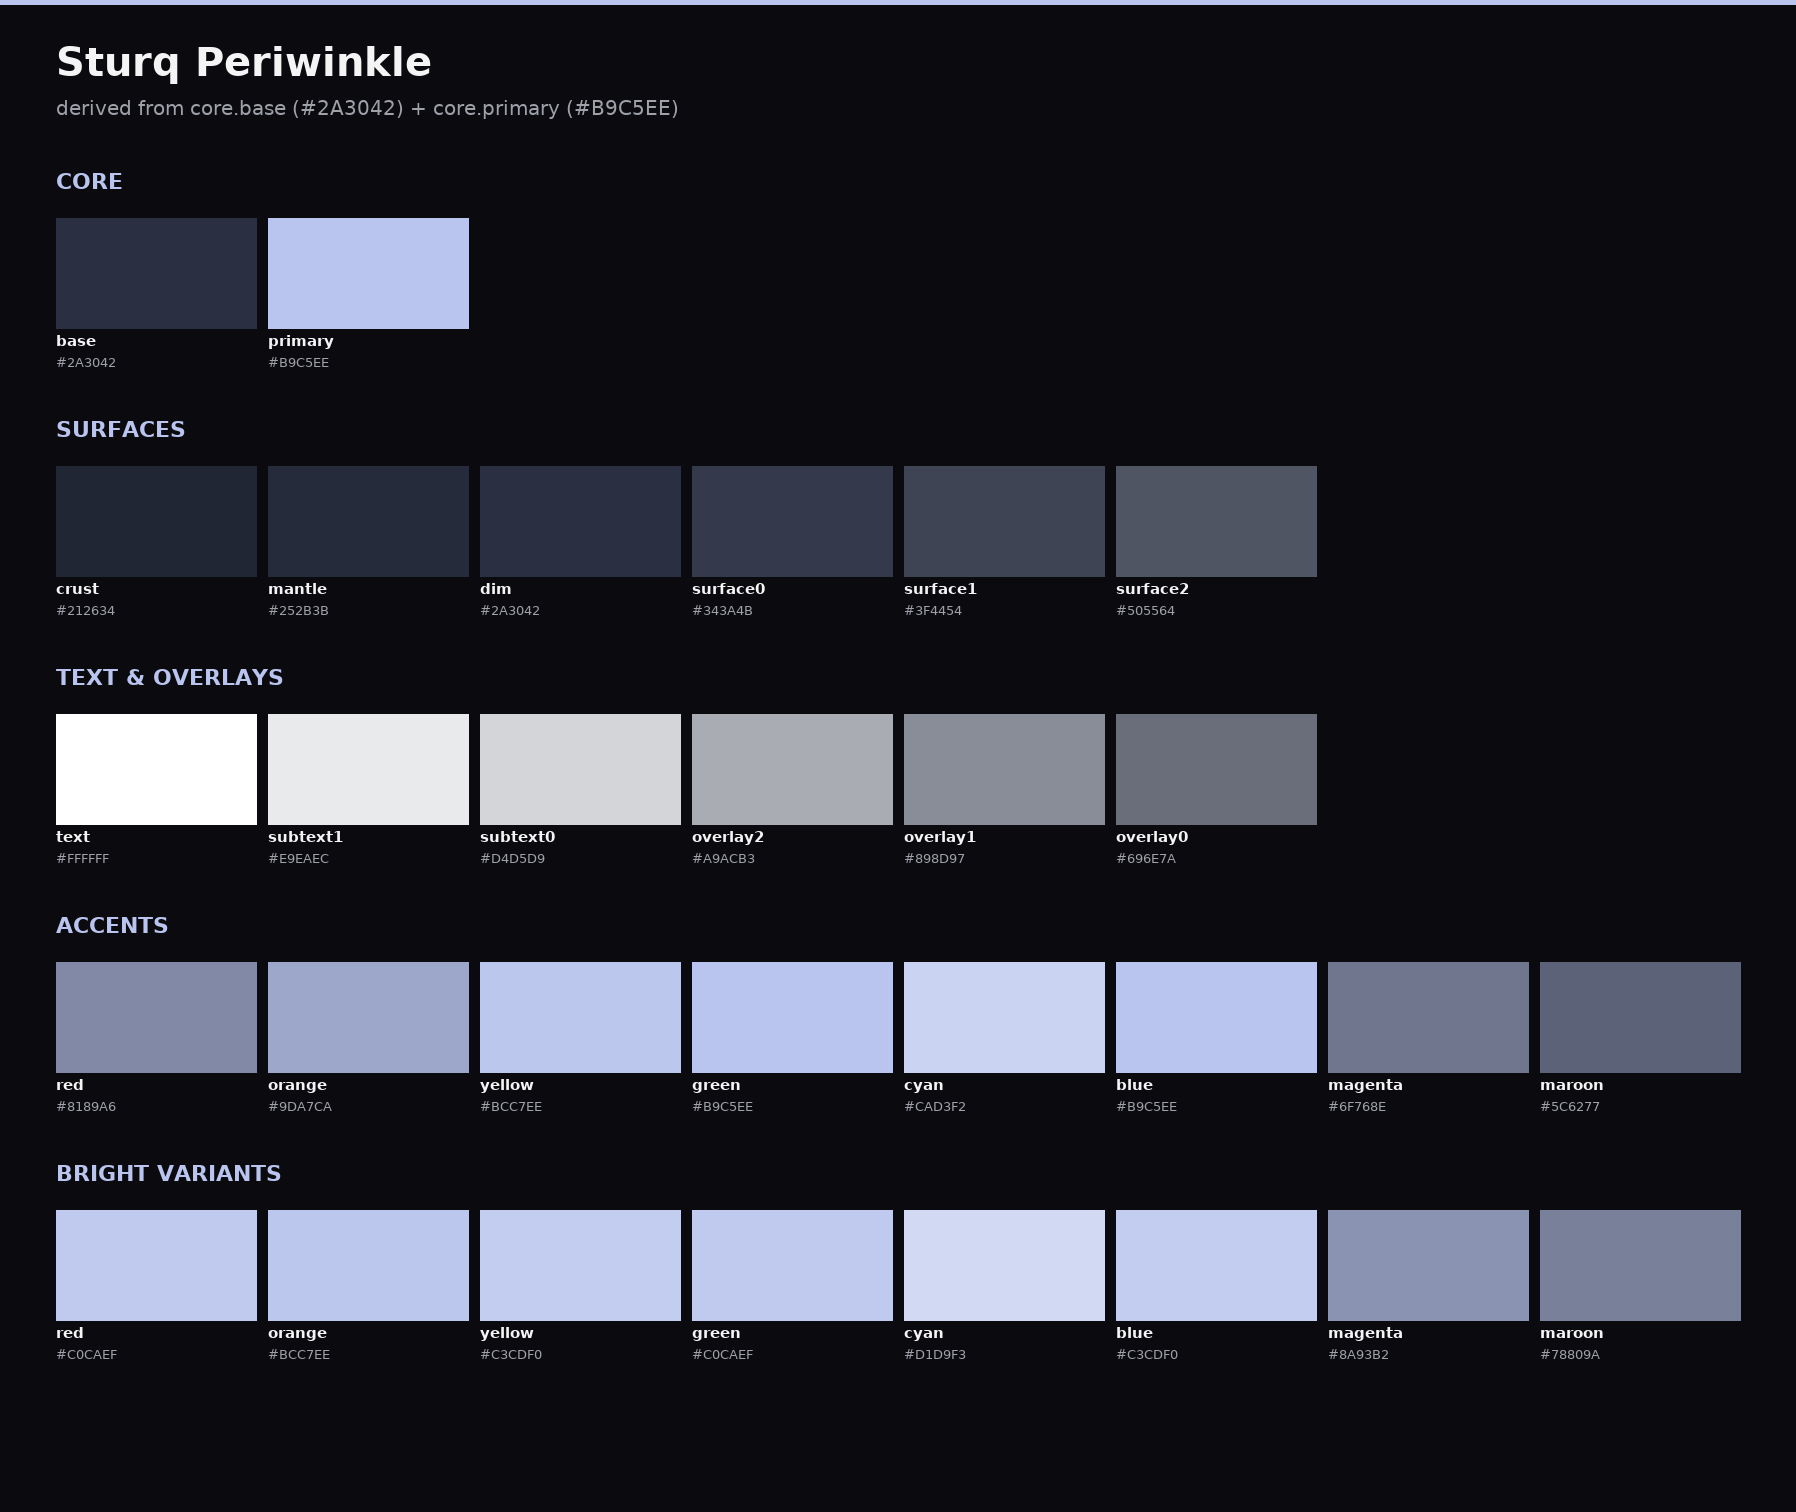
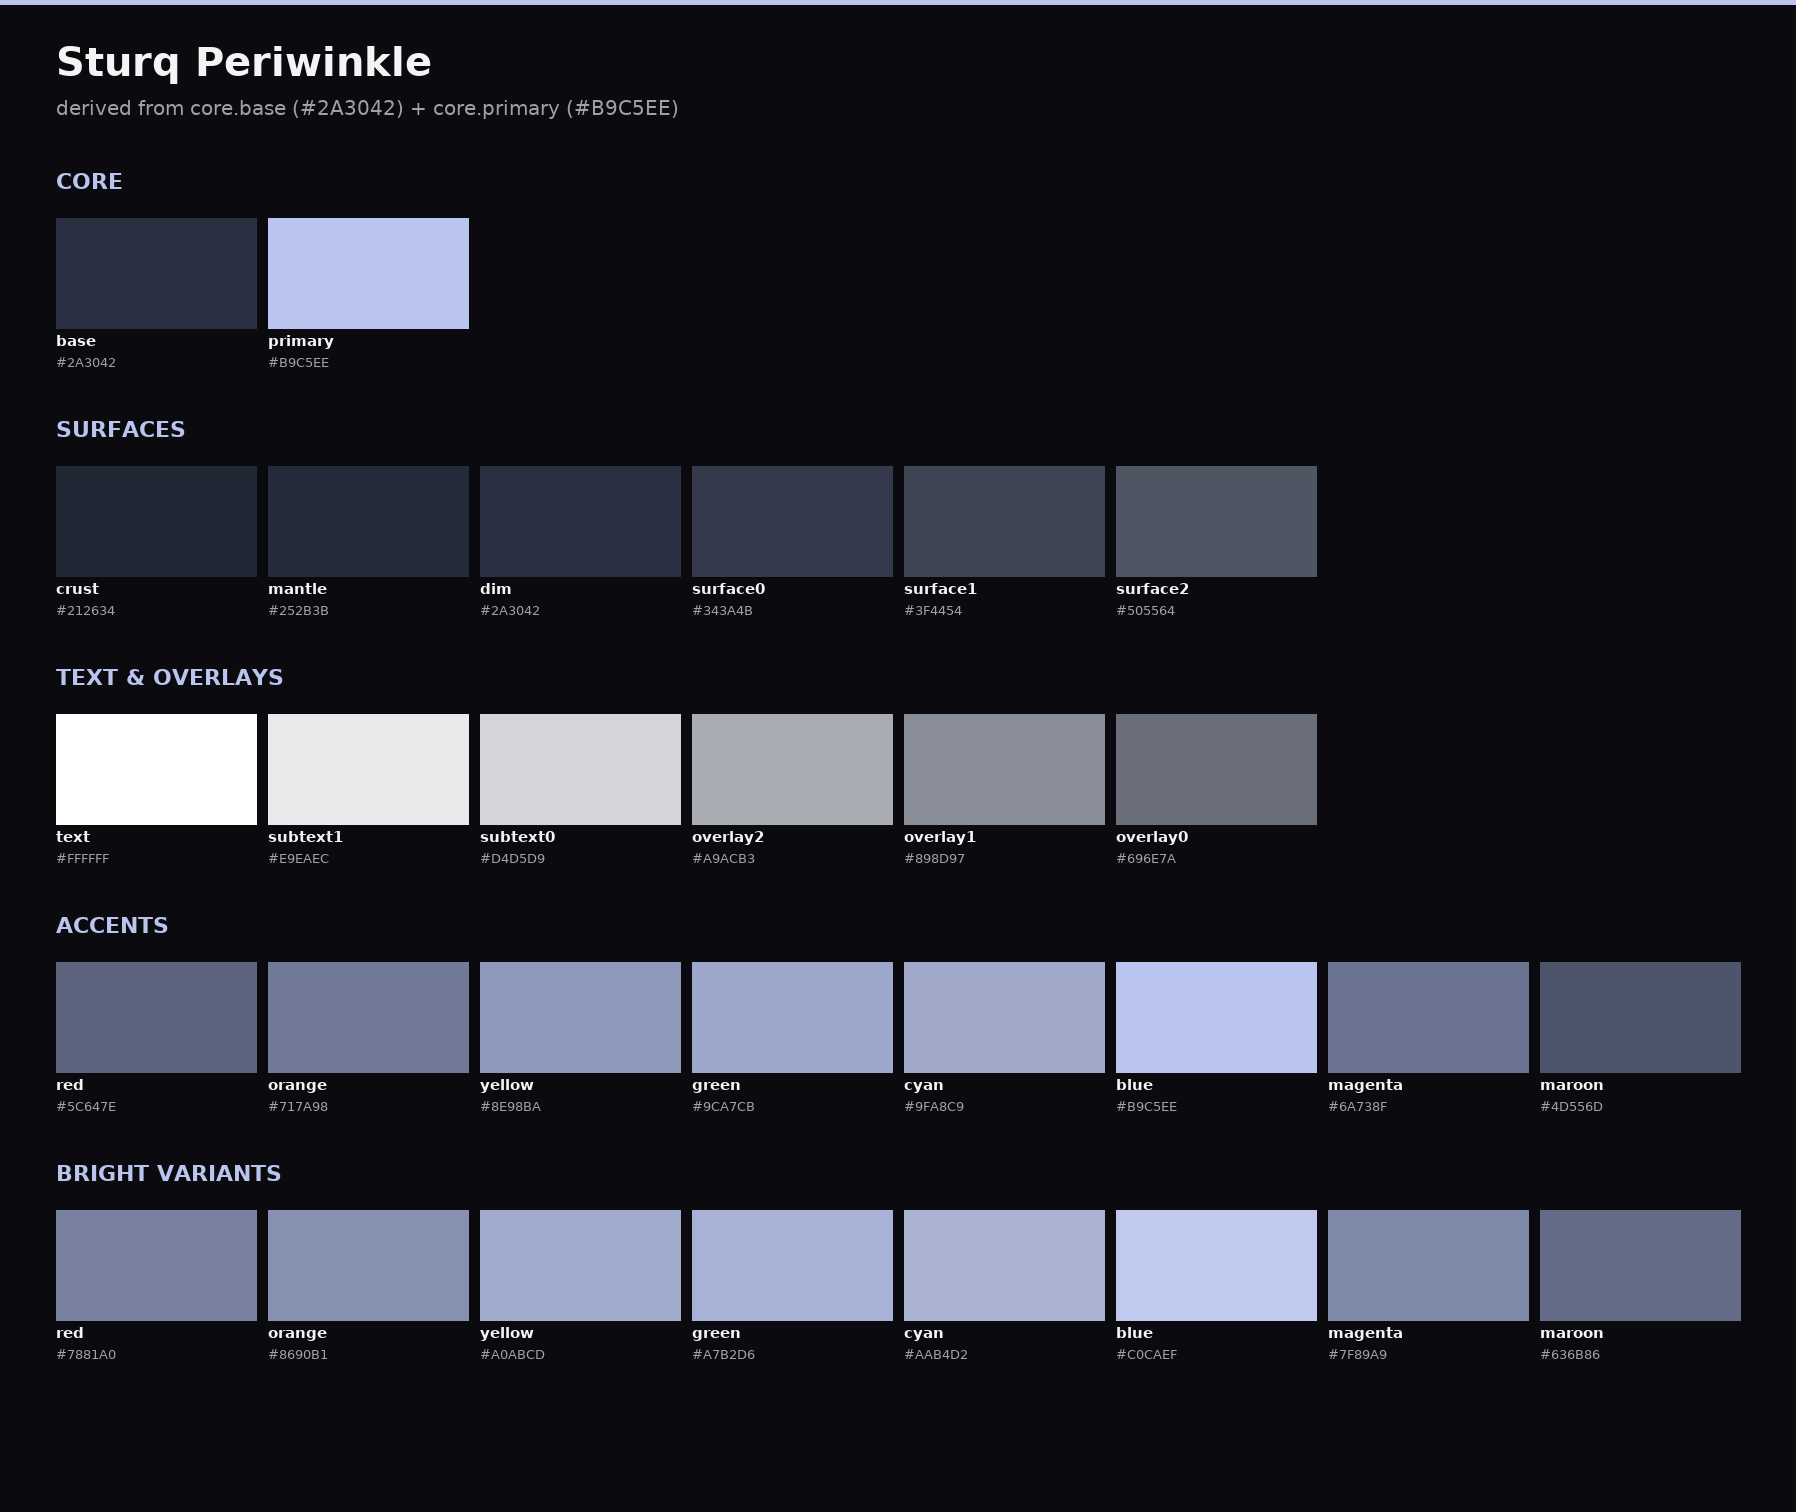
palette: accents as true base+primary mixes (every slot blends both)

Changed region(s): [[0.0312, 0.7771, 0.6236, 0.9015], [0.0312, 0.6217, 0.6236, 0.746], [0.7483, 0.8704, 0.7795, 0.9015]]

diff --git a/formats/variables.css b/formats/variables.css
@@ -18,21 +18,21 @@
   --sturq-overlay1: #898D97;
   --sturq-overlay0: #696E7A;
   /* Accents */
-  --sturq-red: #8189A6;
-  --sturq-orange: #9DA7CA;
-  --sturq-yellow: #BCC7EE;
-  --sturq-green: #B9C5EE;
-  --sturq-cyan: #CAD3F2;
+  --sturq-red: #5C647E;
+  --sturq-orange: #717A98;
+  --sturq-yellow: #8E98BA;
+  --sturq-green: #9CA7CB;
+  --sturq-cyan: #9FA8C9;
   --sturq-blue: #B9C5EE;
-  --sturq-magenta: #6F768E;
-  --sturq-maroon: #5C6277;
+  --sturq-magenta: #6A738F;
+  --sturq-maroon: #4D556D;
   /* Bright variants */
-  --sturq-bright-red: #C0CAEF;
-  --sturq-bright-orange: #BCC7EE;
-  --sturq-bright-yellow: #C3CDF0;
-  --sturq-bright-green: #C0CAEF;
-  --sturq-bright-cyan: #D1D9F3;
-  --sturq-bright-blue: #C3CDF0;
-  --sturq-bright-magenta: #8A93B2;
-  --sturq-bright-maroon: #78809A;
+  --sturq-bright-red: #7881A0;
+  --sturq-bright-orange: #8690B1;
+  --sturq-bright-yellow: #A0ABCD;
+  --sturq-bright-green: #A7B2D6;
+  --sturq-bright-cyan: #AAB4D2;
+  --sturq-bright-blue: #C0CAEF;
+  --sturq-bright-magenta: #7F89A9;
+  --sturq-bright-maroon: #636B86;
 }

diff --git a/scripts/build.py b/scripts/build.py
@@ -59,24 +59,24 @@ text = {
     "overlay0": mix("#FFFFFF", BASE, 70),
 }
 accents = {
-    "red":     darken(PRIMARY, 30),
-    "orange":  darken(PRIMARY, 15),
-    "yellow":  lighten(PRIMARY, 5),
-    "green":   PRIMARY,
-    "cyan":    lighten(PRIMARY, 25),
+    "red":     mix(BASE, PRIMARY, 35),
+    "orange":  mix(BASE, PRIMARY, 50),
+    "yellow":  mix(BASE, PRIMARY, 70),
+    "green":   mix(BASE, PRIMARY, 80),
+    "cyan":    lighten(mix(BASE, PRIMARY, 75), 10),
     "blue":    PRIMARY,
-    "magenta": darken(PRIMARY, 40),
-    "maroon":  darken(PRIMARY, 50),
+    "magenta": mix(BASE, PRIMARY, 45),
+    "maroon":  mix(BASE, PRIMARY, 25),
 }
 bright = {
-    "red":     mix(PRIMARY, "#FFFFFF", 10),
-    "orange":  lighten(PRIMARY, 5),
-    "yellow":  lighten(PRIMARY, 15),
-    "green":   lighten(PRIMARY, 10),
-    "cyan":    lighten(PRIMARY, 35),
-    "blue":    lighten(PRIMARY, 15),
-    "magenta": darken(PRIMARY, 25),
-    "maroon":  darken(PRIMARY, 35),
+    "red":     mix(BASE, PRIMARY, 55),
+    "orange":  mix(BASE, PRIMARY, 65),
+    "yellow":  lighten(mix(BASE, PRIMARY, 80), 5),
+    "green":   lighten(mix(BASE, PRIMARY, 85), 5),
+    "cyan":    lighten(mix(BASE, PRIMARY, 80), 15),
+    "blue":    lighten(PRIMARY, 10),
+    "magenta": mix(BASE, PRIMARY, 60),
+    "maroon":  mix(BASE, PRIMARY, 40),
 }
 # base16 has base + primary baked in directly (sturq/nix-config:lib/palette.nix)
 base16 = {

diff --git a/README.md b/README.md
@@ -56,14 +56,14 @@ and is replayed by [`scripts/build.py`](./scripts/build.py).
 
 |  | Token | Hex |  | Bright | Hex |
 |---|---|---|---|---|---|
-| ![](./assets/swatches/8189A6.png) | red | `#8189A6` | ![](./assets/swatches/C0CAEF.png) | bright_red | `#C0CAEF` |
-| ![](./assets/swatches/9DA7CA.png) | orange | `#9DA7CA` | ![](./assets/swatches/BCC7EE.png) | bright_orange | `#BCC7EE` |
-| ![](./assets/swatches/BCC7EE.png) | yellow | `#BCC7EE` | ![](./assets/swatches/C3CDF0.png) | bright_yellow | `#C3CDF0` |
-| ![](./assets/swatches/B9C5EE.png) | green | `#B9C5EE` | ![](./assets/swatches/C0CAEF.png) | bright_green | `#C0CAEF` |
-| ![](./assets/swatches/CAD3F2.png) | cyan | `#CAD3F2` | ![](./assets/swatches/D1D9F3.png) | bright_cyan | `#D1D9F3` |
-| ![](./assets/swatches/B9C5EE.png) | blue | `#B9C5EE` | ![](./assets/swatches/C3CDF0.png) | bright_blue | `#C3CDF0` |
-| ![](./assets/swatches/6F768E.png) | magenta | `#6F768E` | ![](./assets/swatches/8A93B2.png) | bright_magenta | `#8A93B2` |
-| ![](./assets/swatches/5C6277.png) | maroon | `#5C6277` | ![](./assets/swatches/78809A.png) | bright_maroon | `#78809A` |
+| ![](./assets/swatches/5C647E.png) | red | `#5C647E` | ![](./assets/swatches/7881A0.png) | bright_red | `#7881A0` |
+| ![](./assets/swatches/717A98.png) | orange | `#717A98` | ![](./assets/swatches/8690B1.png) | bright_orange | `#8690B1` |
+| ![](./assets/swatches/8E98BA.png) | yellow | `#8E98BA` | ![](./assets/swatches/A0ABCD.png) | bright_yellow | `#A0ABCD` |
+| ![](./assets/swatches/9CA7CB.png) | green | `#9CA7CB` | ![](./assets/swatches/A7B2D6.png) | bright_green | `#A7B2D6` |
+| ![](./assets/swatches/9FA8C9.png) | cyan | `#9FA8C9` | ![](./assets/swatches/AAB4D2.png) | bright_cyan | `#AAB4D2` |
+| ![](./assets/swatches/B9C5EE.png) | blue | `#B9C5EE` | ![](./assets/swatches/C0CAEF.png) | bright_blue | `#C0CAEF` |
+| ![](./assets/swatches/6A738F.png) | magenta | `#6A738F` | ![](./assets/swatches/7F89A9.png) | bright_magenta | `#7F89A9` |
+| ![](./assets/swatches/4D556D.png) | maroon | `#4D556D` | ![](./assets/swatches/636B86.png) | bright_maroon | `#636B86` |
 
 ### Base16 mapping
 
@@ -77,14 +77,14 @@ and is replayed by [`scripts/build.py`](./scripts/build.py).
 | ![](./assets/swatches/FFFFFF.png) | base05 | `#FFFFFF` |
 | ![](./assets/swatches/E9EAEC.png) | base06 | `#E9EAEC` |
 | ![](./assets/swatches/D4D5D9.png) | base07 | `#D4D5D9` |
-| ![](./assets/swatches/8189A6.png) | base08 | `#8189A6` |
-| ![](./assets/swatches/9DA7CA.png) | base09 | `#9DA7CA` |
-| ![](./assets/swatches/BCC7EE.png) | base0A | `#BCC7EE` |
-| ![](./assets/swatches/B9C5EE.png) | base0B | `#B9C5EE` |
-| ![](./assets/swatches/CAD3F2.png) | base0C | `#CAD3F2` |
+| ![](./assets/swatches/5C647E.png) | base08 | `#5C647E` |
+| ![](./assets/swatches/717A98.png) | base09 | `#717A98` |
+| ![](./assets/swatches/8E98BA.png) | base0A | `#8E98BA` |
+| ![](./assets/swatches/9CA7CB.png) | base0B | `#9CA7CB` |
+| ![](./assets/swatches/9FA8C9.png) | base0C | `#9FA8C9` |
 | ![](./assets/swatches/B9C5EE.png) | base0D | `#B9C5EE` |
-| ![](./assets/swatches/6F768E.png) | base0E | `#6F768E` |
-| ![](./assets/swatches/5C6277.png) | base0F | `#5C6277` |
+| ![](./assets/swatches/6A738F.png) | base0E | `#6A738F` |
+| ![](./assets/swatches/4D556D.png) | base0F | `#4D556D` |
 
 `base00` is `core.base` raw, `base0D` is `core.primary` raw. The whole
 scheme orbits these two.